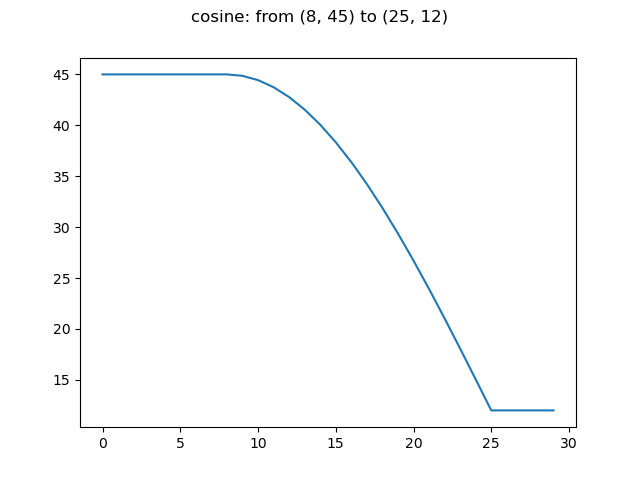
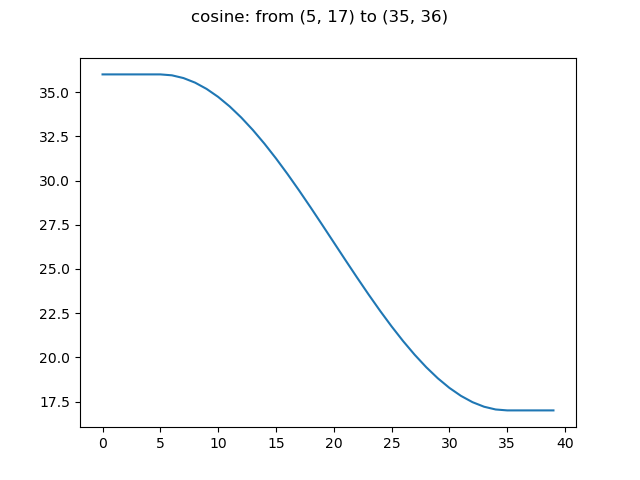
updated cosine scheduler

diff --git a/scheduling_utils/schedulers.py b/scheduling_utils/schedulers.py
@@ -30,11 +30,12 @@ class Scheduler(ABC):
 
     def _get_perc_step(self, step: int):
 
-        # step normalized in 0_1 range
+        # get step normalized in 0_1 range
         return max(0, min(1, (step - self._start_step) / (self._stop_step - self._start_step)))
 
     def _get_value(self, perc_step: float):
-        return perc_step * self._stop_value + (1 - perc_step) * self._start_value
+        # get value at perc_step
+        return self._start_value + (self._stop_value - self._start_value) * perc_step
 
     def step(self, step: int):
 
@@ -55,7 +56,10 @@ class CosineScheduler(Scheduler):
     def warp_func(self, perc_step: float):
 
         # warp with cosine
-        return 1.0 - math.cos(perc_step * math.pi / 2)
+        # math.cos(math.pi * perc_step) goes from 1 to -1
+        # sum 1 and mul 0.5 to normalize
+        # then reverse since you still want a perc step as output
+        return 1 - (0.5 * (1. + math.cos(math.pi * perc_step)))
 
 
 class LinearScheduler(Scheduler):
